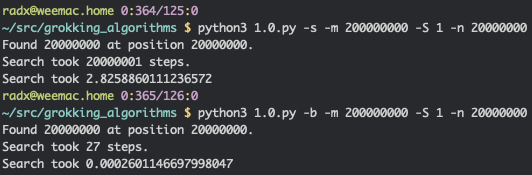
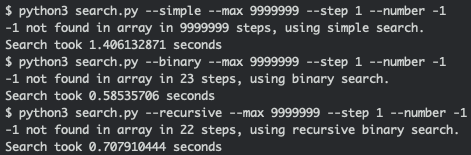
all search functions in one program, update scrot

diff --git a/search.py b/search.py
@@ -1,12 +1,14 @@
 from argparse import ArgumentParser
 import sys
-import time
+import timeit
 
 
 def get_args():
     parser = ArgumentParser(description='Binary search')
     group = parser.add_mutually_exclusive_group(required=True)
     group.add_argument('-b', '--binary', action='store_true',
+                       help="Run a binary search.")
+    group.add_argument('-r', '--recursive', action='store_true',
                        help="Run a binary search.")
     group.add_argument('-s', '--simple', action='store_true',
                        help="Run a simple search.")
@@ -24,17 +26,8 @@ def simple_search(mylist, item):
     for e in mylist:
         count += 1
         if e == item:
-            print(
-                "Found {} at position {}.\n".format(
-                    e,
-                    mylist.index(e)
-                ) +
-                "Search took {} steps.".format(
-                    count
-                )
-            )
-            return
-    print("Cannot find {} in list.".format(item))
+            return (True, count)
+    return (False, count)
 
 
 def binary_search(mylist, item):
@@ -47,36 +40,58 @@ def binary_search(mylist, item):
         guess = mylist[mid]
         count += 1
         if guess == item:
-            print(
-                "Found {} at position {}.\n".format(
-                    guess,
-                    mid
-                ) +
-                "Search took {} steps.".format(
-                    count
-                )
-            )
-            return
+            return (True, count)
         elif guess > item:
             high = mid - 1
         else:
             low = mid + 1
-    print("Cannot find {} in list.".format(item))
+    return (False, count)
 
 
-def main():
+def recursive_binary_search(arr, element, count):
+    count += 1
+    low = 0
+    high = len(arr) - 1
+    mid = int((low + high) / 2)
+    if element == arr[mid]:
+        return (True, count)
+    elif high == 0:
+        return (False, count)
+    elif element > arr[mid]:
+        return recursive_binary_search(arr[mid + 1:], element, count)
+    elif element < arr[mid]:
+        return recursive_binary_search(arr[:mid - 1], element, count)
+
+
+def search():
     args = get_args()
     mylist = list(range(0, args.max, args.step))
 
-    start = time.time()
     if args.binary:
-        binary_search(mylist, args.number)
+        found, count = binary_search(mylist, args.number)
+        search_type = "binary"
+    elif args.recursive:
+        found, count = recursive_binary_search(mylist, args.number, 0)
+        search_type = "recursive binary"
     else:
-        simple_search(mylist, args.number)
-    end = time.time()
+        found, count = simple_search(mylist, args.number)
+        search_type = "simple"
 
-    elapsed = round(end - start, 20)
-    print("Search took {}".format(elapsed))
+    if found:
+        print("Found {} in {} steps, using {} search.".format(
+            args.number, count, search_type
+        ))
+    else:
+        print("{} not found in array in {} steps, using {} search.".format(
+            args.number, count, search_type
+        ))
+
+
+def main():
+    speed = timeit.timeit(
+        "search()", setup="from __main__ import search", number=1
+    )
+    print("Search took {} seconds".format(speed))
 
 
 if __name__ == '__main__':
